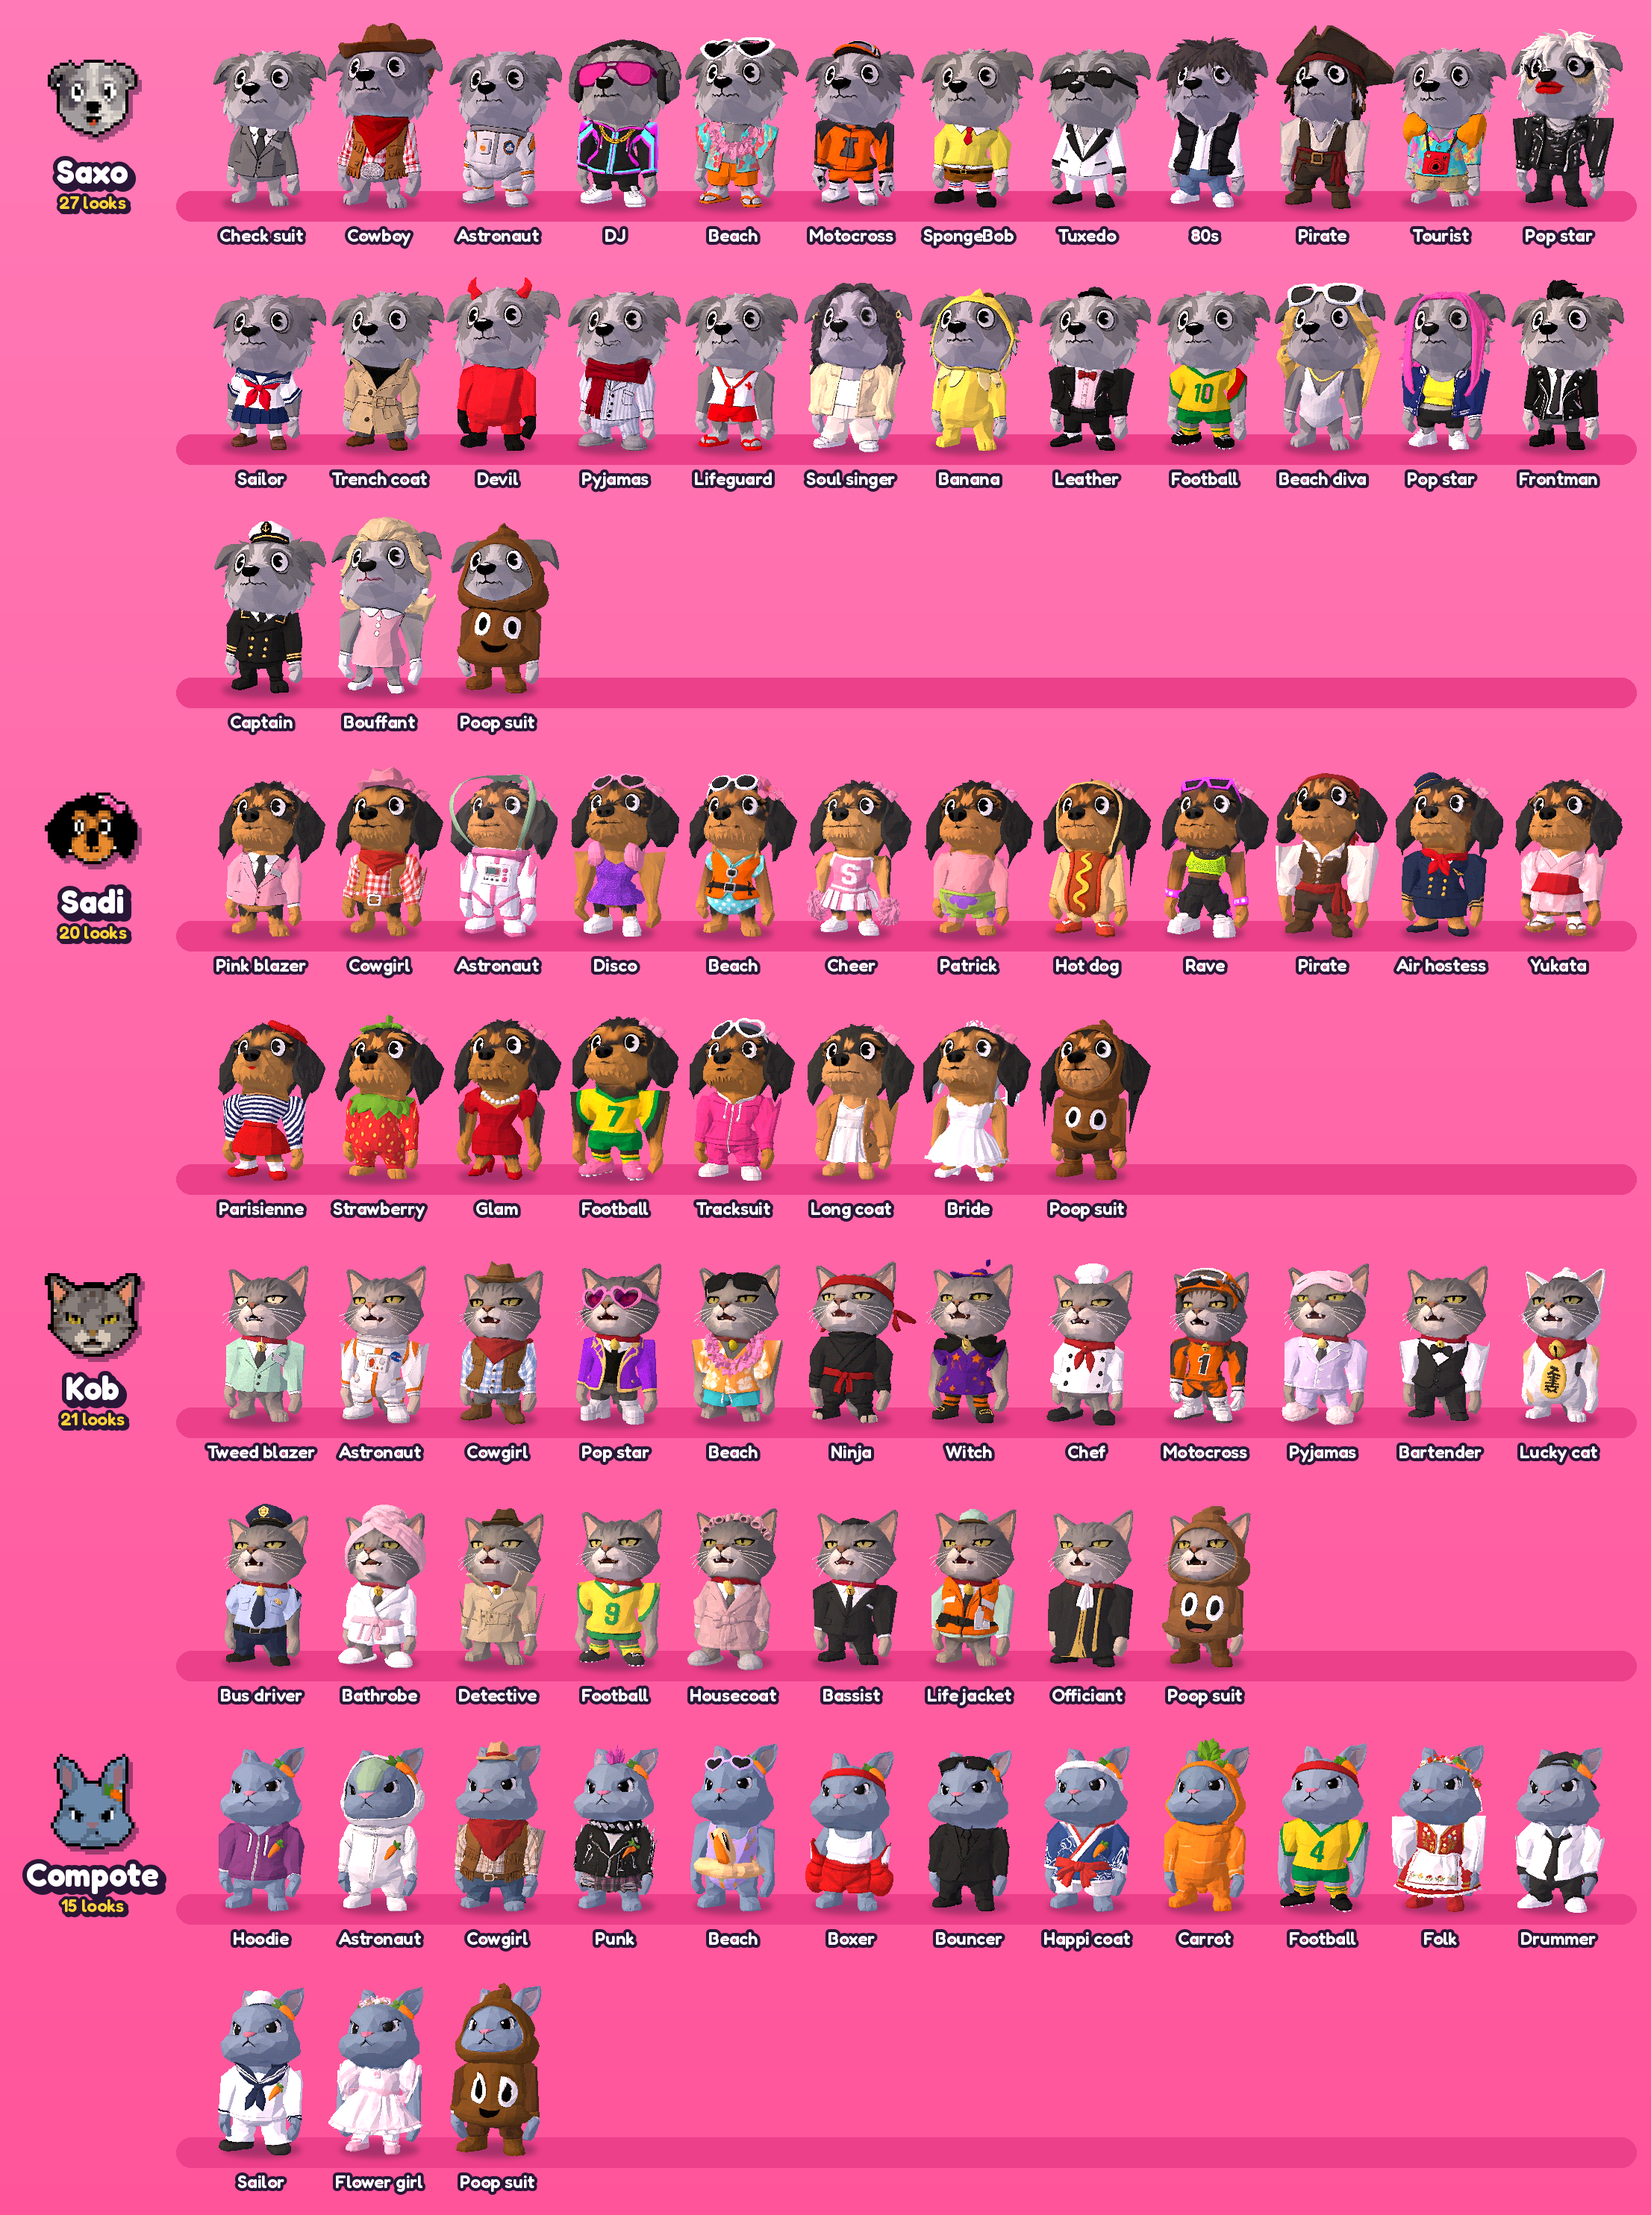
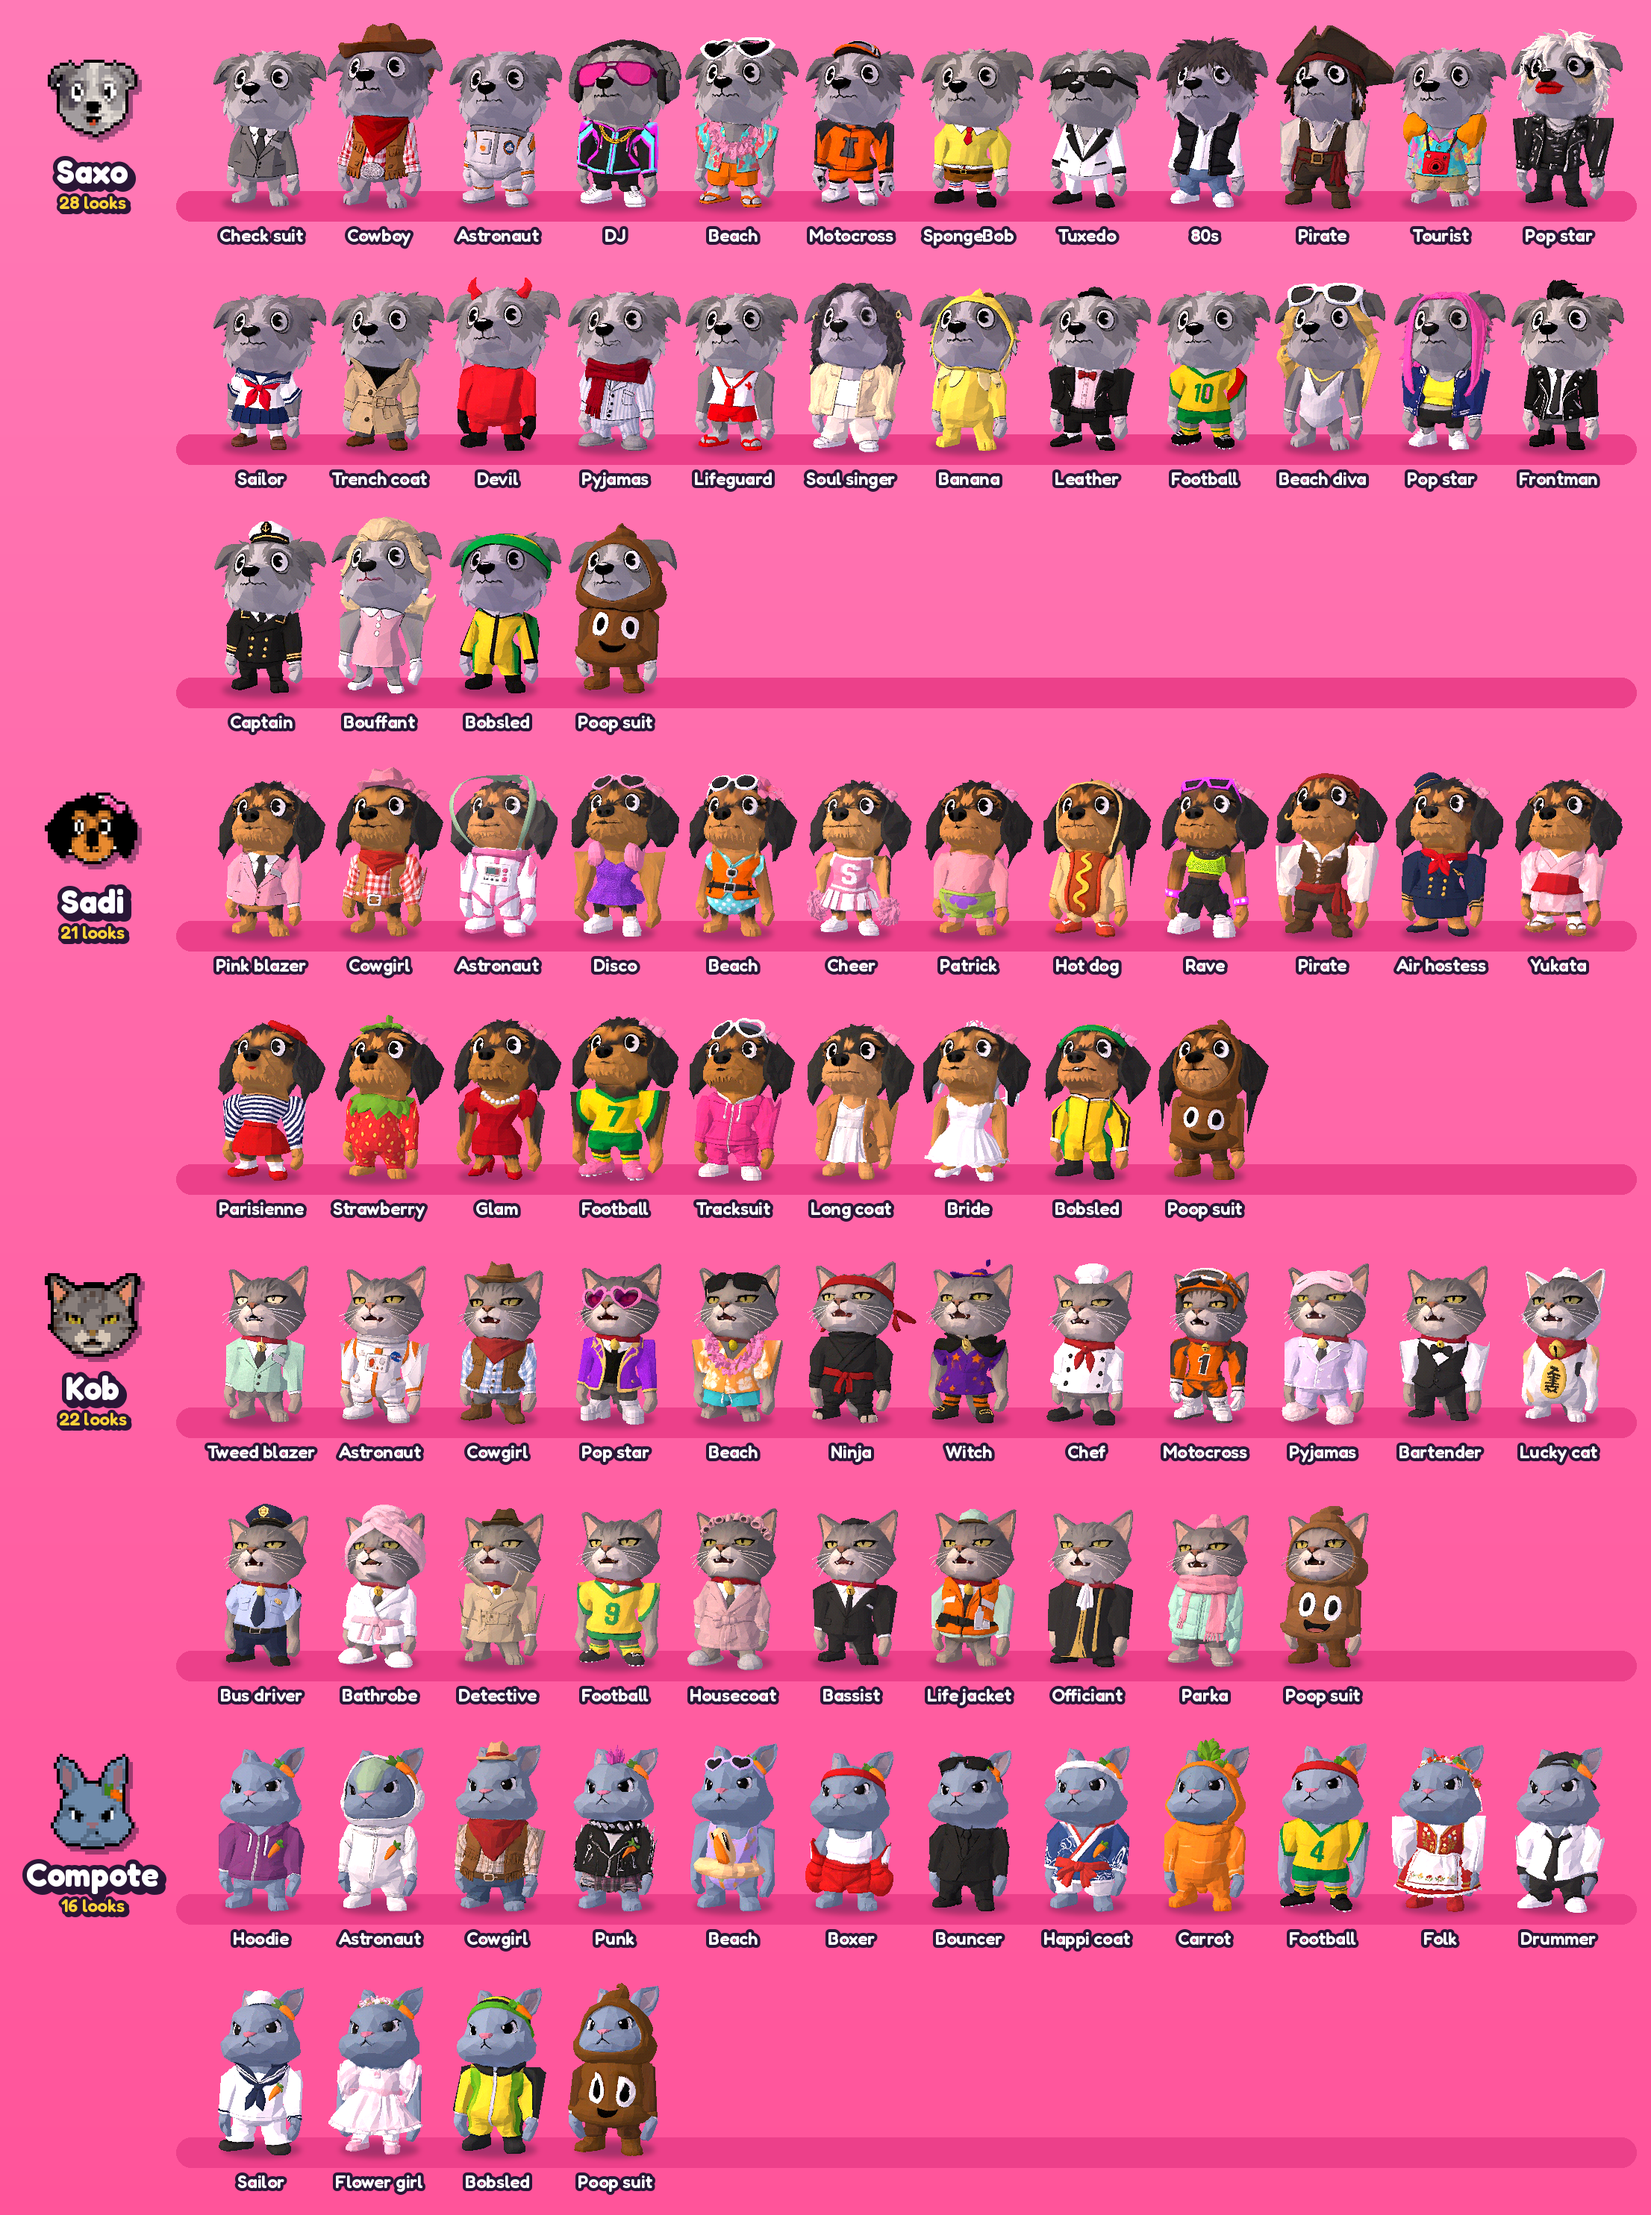
Sync with dd07564: docs(readme): add the Kingston beach and bobsled track tiles and the bobsled looks

diff --git a/README.md b/README.md
@@ -97,7 +97,7 @@ in Bikini Bottom, a hot dog in the supermarket. The poop suit is never automatic
 ## 59 maps, and counting
 
 <p align="center">
-  <img src="docs/readme/maps.png" width="100%" alt="The maps, from the street, club and moon to Tokyo, Paris, the yacht, the techno club, the treasure cave, the black ship, the plane, the chapel club, the desert village, the blossom festival, the pier at dusk, the night bus, a house party, a hospital ward, a water park, a radio studio, a fruits-only warehouse party, a film-noir night street, a cup final under the floodlights, a tiny Earth in space, a baobab on the savanna, a Spanish beach, a grey housing estate, a desert stage, a band trailer, a pink childhood bedroom and a schooner that sinks, each with the cast in costume">
+  <img src="docs/readme/maps.png" width="100%" alt="The maps, from the street, club and moon to Tokyo, Paris, the yacht, the techno club, the treasure cave, the black ship, the plane, the chapel club, the desert village, the blossom festival, the pier at dusk, the night bus, a house party, a hospital ward, a water park, a radio studio, a fruits-only warehouse party, a film-noir night street, a cup final under the floodlights, a tiny Earth in space, a baobab on the savanna, a Spanish beach, a grey housing estate, a desert stage, a band trailer, a pink childhood bedroom, a schooner that sinks, a white wedding chapel, a Kingston beach and an Olympic bobsled track at night, each with the cast in costume">
 </p>
 
 Every map is built from primitives in [`src/maps*.js`](src/) and animated as a pure function of time, mostly on the
